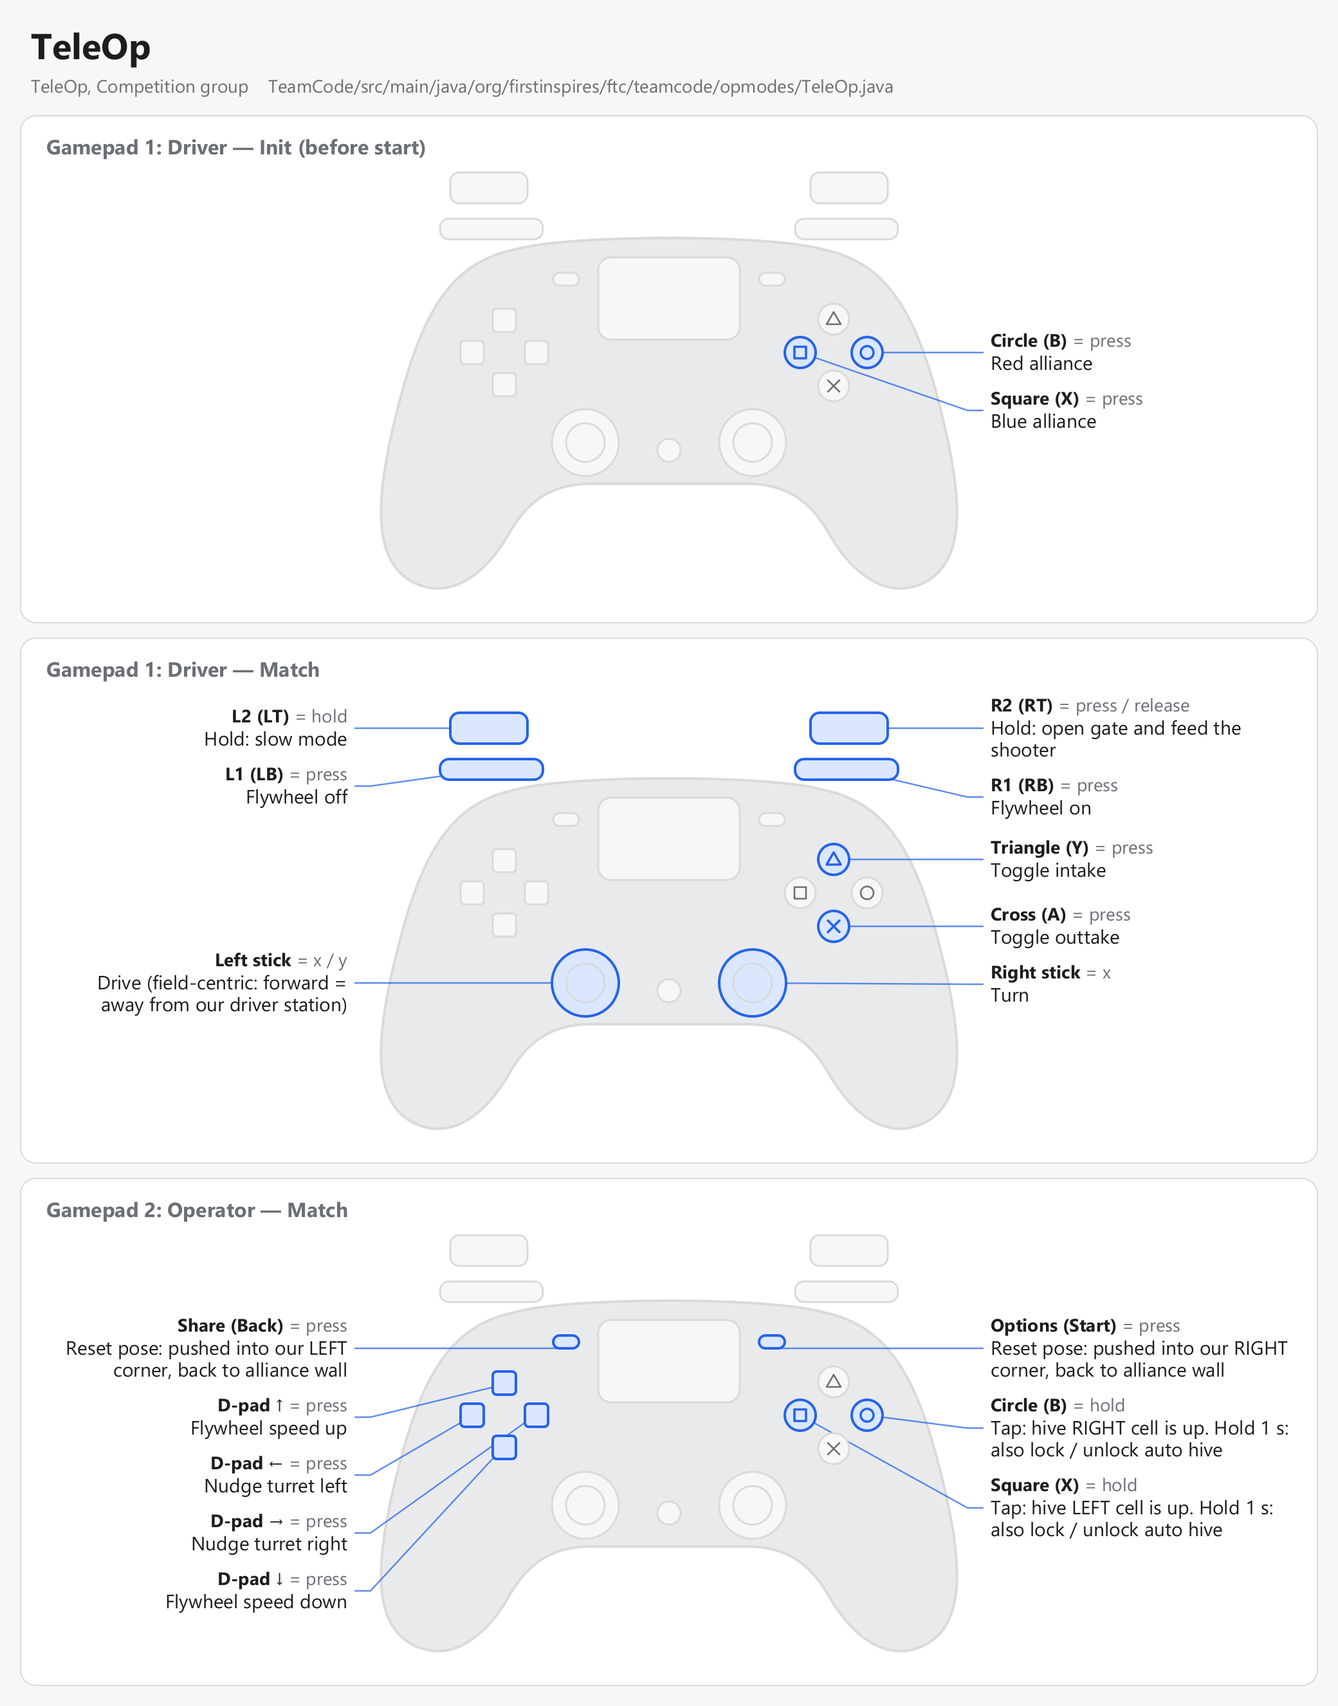
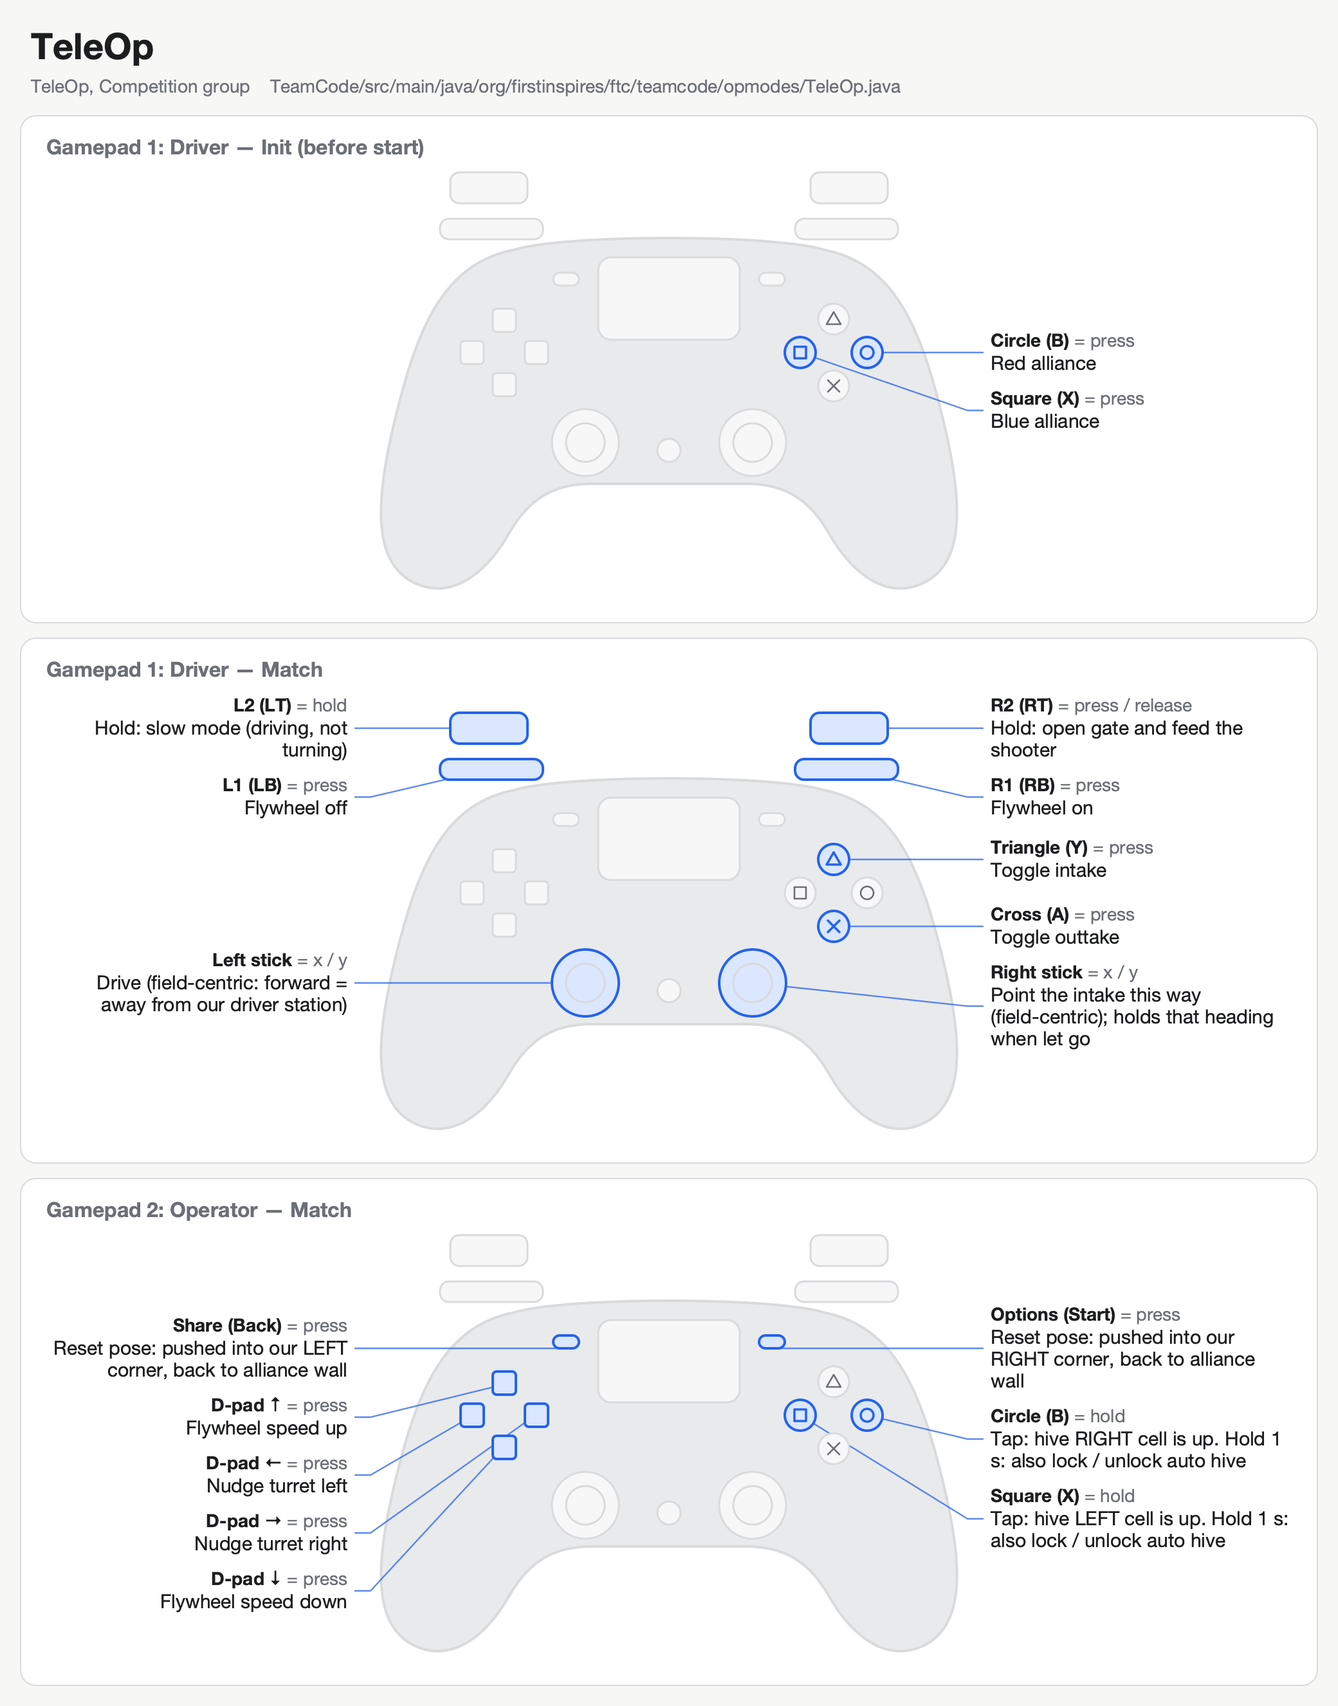
twinstick

diff --git a/tools/telemetry-preview.html b/tools/telemetry-preview.html
@@ -292,6 +292,7 @@ pre .fold { color: var(--muted); }
         <div class="row"><label for="px">x</label><input type="range" id="px" min="9" max="135" step="0.5"><output for="px" id="px-out"></output></div>
         <div class="row"><label for="py">y</label><input type="range" id="py" min="9" max="135" step="0.5"><output for="py" id="py-out"></output></div>
         <div class="row"><label for="ph">Heading</label><input type="range" id="ph" min="-180" max="180" step="1"><output for="ph" id="ph-out"></output></div>
+        <div class="row"><label for="headingTarget">Target heading (right stick)</label><input type="range" id="headingTarget" min="-180" max="180" step="1"><output for="headingTarget" id="headingTarget-out"></output></div>
       </fieldset>
 
       <fieldset>
@@ -506,13 +507,17 @@ function lines(s) {
     add(columns(`Speed margin ±${f(s.flyTol / FLYWHEEL_TICKS_PER_EXIT_SPEED / exit * 100 * 2, 1)}%`, `Aim margin ±${f(s.turTol * 2, 1)}°`));
     add(mono(`Aim ahead ${fs(s.lead, 1)}°`));
   }
-  add(columns(`Pose ${f(s.pose.x, 1)}, ${f(s.pose.y, 1)}`, `Heading ${f(s.pose.h, 0)}°`));
+  add(columns(`Pose ${f(s.pose.x, 1)}, ${f(s.pose.y, 1)}`, `Heading ${f(s.pose.h, 0)}° → ${f(s.headingTarget, 0)}°`));
   add(columns(`Loop ${f(s.loopMs, 1)} ms ${f(1000 / s.loopMs, 0)} Hz`, "Follower MANUAL"));
   tiers.push(out.length);
 
   // 3. Everything else: Robot.telemetry() -> drivebase, intake, gate, launcher, led
   add(color("──── details ────", HTML.GRAY));
   data("Pose", `(${f(s.pose.x, 3)}, ${f(s.pose.y, 3)}, ${f(s.pose.h * Math.PI / 180, 3)})`);
+  // Twin stick: HEADING_KP = 1 turn power per radian, standing still, clipped to HEADING_MAX_POWER = 1
+  const headingError = ((s.headingTarget - s.pose.h + 540) % 360) - 180;
+  data("Heading target / actual (deg)", `${f(s.headingTarget, 0)} / ${f(s.pose.h, 0)}`);
+  data("Turn power", f(Math.max(-1, Math.min(1, headingError * Math.PI / 180)), 2));
   const intakePower = s.feeding || s.intake === "INTAKE" ? 1 : s.intake === "OUTTAKE" ? -1 : 0;
   data("Intake power", f(intakePower, 2));
   data("Gate", s.gate ? "OPEN" : "CLOSED");
@@ -541,7 +546,7 @@ const base = {
   turret: 12.4, turretTarget: 12.9, turTol: 1.5, turNudge: 0,
   aiming: true, feasible: true, sotm: true, lead: 3.1,
   alliance: "RED", hive: "RIGHT", intake: "INTAKE", feeding: false, gate: false, loopMs: 11.5,
-  pose: { x: 26, y: 104, h: -30 },
+  pose: { x: 26, y: 104, h: -30 }, headingTarget: -30,
 };
 const scenarios = [
   ["Ready to shoot", {}],
@@ -551,6 +556,7 @@ const scenarios = [
   ["Flywheel over speed", { actual: 2110, target: 1860, pose: { x: 36, y: 76, h: 0 } }],
   ["Too close to reach", { feasible: false, lead: 0, turret: -35, turretTarget: -35.5, pose: { x: 50, y: 40, h: 90 } }],
   ["Flywheel off", { spinning: false, actual: 0, pose: { x: 100, y: 110, h: 180 } }],
+  ["Turning to the right stick", { pose: { x: 30, y: 96, h: -30 }, headingTarget: 60 }],
   ["Operator nudged", { velNudge: 50, turNudge: -2, turretTarget: 10.9, turret: 10.6, actual: 2020, target: 1980 }],
 ];
 let state = structuredClone(base);
@@ -561,7 +567,7 @@ const $ = id => document.getElementById(id);
 const ranges = {
   target: v => f(v, 0), actual: v => f(v, 0), flyTol: v => f(v, 0), velNudge: v => fs(v, 0),
   turret: v => fs(v, 1) + "°", turretTarget: v => fs(v, 1) + "°", turTol: v => f(v, 1) + "°", turNudge: v => fs(v, 0) + "°",
-  lead: v => fs(v, 1) + "°", loopMs: v => f(v, 1) + " ms",
+  lead: v => fs(v, 1) + "°", loopMs: v => f(v, 1) + " ms", headingTarget: v => fs(v, 0) + "°",
 };
 const poseRanges = { px: ["x", v => f(v, 1)], py: ["y", v => f(v, 1)], ph: ["h", v => fs(v, 0) + "°"] };
 const checks = ["spinning", "aiming", "feasible", "sotm", "feeding", "gate"];
@@ -597,6 +603,8 @@ function render() {
 function pick(i) {
   current = i;
   state = Object.assign(structuredClone(base), structuredClone(scenarios[i][1]));
+  // Holding the heading the robot has, unless the situation says otherwise
+  if (!("headingTarget" in scenarios[i][1])) state.headingTarget = state.pose.h;
   syncInputs();
   render();
 }

diff --git a/TeamCode/src/main/java/org/firstinspires/ftc/teamcode/subsystems/Drivetrain.java b/TeamCode/src/main/java/org/firstinspires/ftc/teamcode/subsystems/Drivetrain.java
@@ -1,6 +1,7 @@
 package org.firstinspires.ftc.teamcode.subsystems;
 
 import static com.pedropathing.ivy.commands.Commands.infinite;
+import static org.firstinspires.ftc.teamcode.RobotConstants.Drive.*;
 
 import com.pedropathing.follower.Follower;
 import com.pedropathing.follower.ManualDrive;
@@ -8,7 +9,10 @@ import com.pedropathing.ivy.Command;
 import com.pedropathing.ivy.behaviors.InterruptedBehavior;
 import com.pedropathing.math.Pose;
 import com.pedropathing.math.Velocity;
+import com.pedropathing.utils.Angle;
 import com.qualcomm.robotcore.hardware.HardwareMap;
+import com.qualcomm.robotcore.util.ElapsedTime;
+import com.qualcomm.robotcore.util.Range;
 
 import org.firstinspires.ftc.robotcore.external.Telemetry;
 import org.firstinspires.ftc.teamcode.pedro.Constants;
@@ -18,9 +22,20 @@ import java.util.function.DoubleSupplier;
 /**
  * Thin wrapper around the Pedro Pathing {@link Follower}, configured in {@link Constants}.
  * Autos drive paths with {@code PedroCommands.follow(follower, path)}.
+ * Twin stick TeleOp driving turns the robot with a PID loop on the localizer heading.
  */
 public class Drivetrain implements Subsystem {
     private final Follower follower;
+
+    private double targetHeading = 0; // field radians, for the front of the robot
+    private double turnPower = 0;
+    private final ElapsedTime headingTimer = new ElapsedTime();
+    private double headingIntegral = 0;
+    private double lastHeadingError = 0;
+    // Whether the twin stick drive ran last loop / this loop. When it starts, or resumes after a path suspended it,
+    // it holds the heading the robot has now instead of turning back to an old target.
+    private boolean headingHeld = false;
+    private boolean headingHeldThisLoop = false;
 
     public Drivetrain(HardwareMap hardwareMap) {
         follower = Constants.create(hardwareMap);
@@ -36,13 +51,26 @@ public class Drivetrain implements Subsystem {
         return follower.pose();
     }
 
+    /** Also holds the new heading, so a corner reset doesn't turn the robot to a target from before the reset. */
     public void setPose(Pose pose) {
         follower.setPose(pose);
+        setTargetHeading(pose.heading());
     }
 
     /** Field-relative velocity: inches/sec in x and y, radians/sec CCW. */
     public Velocity getVelocity() {
         return follower.velocity();
+    }
+
+    // ---- Heading hold ----
+
+    /** Field heading (radians) the twin stick drive turns the front of the robot to. */
+    public double getTargetHeading() {
+        return targetHeading;
+    }
+
+    public void setTargetHeading(double heading) {
+        targetHeading = Angle.normalizeSigned(heading);
     }
 
     // ---- Commands ----
@@ -62,8 +90,59 @@ public class Drivetrain implements Subsystem {
                 .setInterruptedBehavior(InterruptedBehavior.SUSPEND);
     }
 
+    /**
+     * Field-centric drive like {@link #driveFieldCentric}, but the second stick says which way to face instead of
+     * how fast to turn: the intake turns to point where it's pushed, and the robot holds that heading once it's let
+     * go. Both sticks use the same frame (forward = away from our driver station, +left).
+     *
+     * @param faceForward second stick, forward component
+     * @param faceLeft    second stick, left component
+     */
+    public Command driveTwinStick(DoubleSupplier forward, DoubleSupplier strafe,
+                                  DoubleSupplier faceForward, DoubleSupplier faceLeft, double headingOffset) {
+        return infinite(() -> {
+            double x = faceForward.getAsDouble();
+            double y = faceLeft.getAsDouble();
+            if (Math.hypot(x, y) > HEADING_STICK_THRESHOLD) {
+                setTargetHeading(headingOffset + Math.atan2(y, x) - INTAKE_HEADING_OFFSET);
+            }
+            follower.manual(ManualDrive.fieldCentric(
+                    forward.getAsDouble(), strafe.getAsDouble(), holdHeading(),
+                    follower.pose().heading(), headingOffset));
+        })
+                .requiring(this)
+                .setInterruptedBehavior(InterruptedBehavior.SUSPEND);
+    }
+
+    /** Turn power (+CCW) toward targetHeading. Call once per loop while holding a heading. */
+    private double holdHeading() {
+        double heading = follower.pose().heading();
+        double dt = headingTimer.seconds();
+        headingTimer.reset();
+        if (!headingHeld) {
+            setTargetHeading(heading);
+            headingIntegral = 0;
+            lastHeadingError = 0;
+            dt = 0;
+        }
+        headingHeldThisLoop = true;
+
+        double error = Angle.normalizeSigned(targetHeading - heading);
+        // Anti-windup: dump the integral when the error crosses zero
+        if (Math.signum(error) != Math.signum(lastHeadingError)) headingIntegral = 0;
+        headingIntegral += error * dt;
+        lastHeadingError = error;
+
+        // Derivative from the measured turn speed (the target holds still), so a new target doesn't kick the output
+        double power = HEADING_KP * error + HEADING_KI * headingIntegral - HEADING_KD * follower.velocity().omega;
+        turnPower = Range.clip(power, -HEADING_MAX_POWER, HEADING_MAX_POWER);
+        return turnPower;
+    }
+
     @Override
     public void update() {
+        headingHeld = headingHeldThisLoop;
+        headingHeldThisLoop = false;
         follower.update();
     }
 
@@ -75,5 +154,10 @@ public class Drivetrain implements Subsystem {
     @Override
     public void telemetry(Telemetry telemetry) {
         telemetry.addData("Pose", follower.pose());
+        if (headingHeld) {
+            telemetry.addData("Heading target / actual (deg)", "%.0f / %.0f",
+                    Math.toDegrees(targetHeading), Math.toDegrees(Angle.normalizeSigned(follower.pose().heading())));
+            telemetry.addData("Turn power", "%.2f", turnPower);
+        }
     }
 }

diff --git a/TeamCode/src/main/java/org/firstinspires/ftc/teamcode/opmodes/TeleOp.java b/TeamCode/src/main/java/org/firstinspires/ftc/teamcode/opmodes/TeleOp.java
@@ -2,6 +2,7 @@ package org.firstinspires.ftc.teamcode.opmodes;
 
 import static com.pedropathing.ivy.Scheduler.schedule;
 import static org.firstinspires.ftc.teamcode.RobotConstants.Drive.SLOW_MODE_SCALE;
+import static org.firstinspires.ftc.teamcode.RobotConstants.Drive.TURN_MODE;
 import static org.firstinspires.ftc.teamcode.RobotConstants.Field.RED_LEFT_CORNER;
 import static org.firstinspires.ftc.teamcode.RobotConstants.Field.RED_RIGHT_CORNER;
 import static org.firstinspires.ftc.teamcode.RobotConstants.Launcher.SHOOT_ON_THE_MOVE;
@@ -11,6 +12,7 @@ import static org.firstinspires.ftc.teamcode.util.Html.*;
 
 import com.pedropathing.ivy.Scheduler;
 import com.pedropathing.math.Pose;
+import com.pedropathing.utils.Angle;
 import com.qualcomm.robotcore.eventloop.opmode.OpMode;
 import com.qualcomm.robotcore.util.ElapsedTime;
 
@@ -19,6 +21,7 @@ import org.firstinspires.ftc.teamcode.Alliance;
 import org.firstinspires.ftc.teamcode.Hive;
 import org.firstinspires.ftc.teamcode.MatchState;
 import org.firstinspires.ftc.teamcode.Robot;
+import org.firstinspires.ftc.teamcode.RobotConstants.Drive.TurnMode;
 import org.firstinspires.ftc.teamcode.ShotSolver.Shot;
 import org.firstinspires.ftc.teamcode.subsystems.Intake;
 import org.firstinspires.ftc.teamcode.subsystems.Launcher;
@@ -28,8 +31,10 @@ import org.firstinspires.ftc.teamcode.util.Html;
 
 /**
  * Gamepad 1 (driver):
- *   sticks          field-centric drive (stick forward = away from our driver station)
- *   hold LT         slow mode
+ *   left stick      field-centric drive (stick forward = away from our driver station)
+ *   right stick     point the intake that way (same frame); the robot holds that heading when let go.
+ *                   With RobotConstants.Drive.TURN_MODE = RATE, right stick x sets the turn speed instead
+ *   hold LT         slow mode (driving only; with RATE, turning too)
  *   triangle        toggle intake        cross   toggle outtake
  *   RB              flywheel on          LB      flywheel off
  *   hold RT         open the gate and feed the shooter
@@ -79,12 +84,18 @@ public class TeleOp extends OpMode {
         double headingOffset = MatchState.alliance == Alliance.BLUE ? Math.PI : 0;
         // Always-on commands, running for the whole match
         schedule(
-                robot.drivebase.driveFieldCentric(
-                        () -> -gamepad1.left_stick_y * driveScale(),
-                        () -> -gamepad1.left_stick_x * driveScale(),
-                        () -> -gamepad1.right_stick_x * driveScale(),
-                        headingOffset
-                ),
+                TURN_MODE == TurnMode.TWIN_STICK
+                        ? robot.drivebase.driveTwinStick(
+                                () -> -gamepad1.left_stick_y * driveScale(),
+                                () -> -gamepad1.left_stick_x * driveScale(),
+                                () -> -gamepad1.right_stick_y,
+                                () -> -gamepad1.right_stick_x,
+                                headingOffset)
+                        : robot.drivebase.driveFieldCentric(
+                                () -> -gamepad1.left_stick_y * driveScale(),
+                                () -> -gamepad1.left_stick_x * driveScale(),
+                                () -> -gamepad1.right_stick_x * driveScale(),
+                                headingOffset),
                 robot.aimAtHive()
         );
         loopTimer.reset();
@@ -185,8 +196,12 @@ public class TeleOp extends OpMode {
             // How far off the hive the turret points to make up for the robot's motion
             telemetry.addLine(mono(String.format("Aim ahead %+.1f°", Math.toDegrees(shot.leadAngle))));
         }
-        telemetry.addLine(columns(String.format("Pose %.1f, %.1f", pose.x(), pose.y()),
-                String.format("Heading %.0f°", Math.toDegrees(pose.heading()))));
+        String heading = TURN_MODE == TurnMode.TWIN_STICK
+                // Where the robot is pointing → where the driver asked it to point
+                ? String.format("Heading %.0f° → %.0f°", Math.toDegrees(Angle.normalizeSigned(pose.heading())),
+                        Math.toDegrees(robot.drivebase.getTargetHeading()))
+                : String.format("Heading %.0f°", Math.toDegrees(pose.heading()));
+        telemetry.addLine(columns(String.format("Pose %.1f, %.1f", pose.x(), pose.y()), heading));
         telemetry.addLine(columns(String.format("Loop %.1f ms %.0f Hz", loopMs, 1000 / loopMs),
                 "Follower " + robot.drivebase.getFollower().mode()));
 

diff --git a/TeamCode/src/main/java/org/firstinspires/ftc/teamcode/opmodes/tuning/HeadingTuner.java b/TeamCode/src/main/java/org/firstinspires/ftc/teamcode/opmodes/tuning/HeadingTuner.java
@@ -1,0 +1,90 @@
+package org.firstinspires.ftc.teamcode.opmodes.tuning;
+
+import static com.pedropathing.ivy.Scheduler.schedule;
+
+import com.bylazar.configurables.annotations.Configurable;
+import com.bylazar.telemetry.PanelsTelemetry;
+import com.bylazar.telemetry.TelemetryManager;
+import com.pedropathing.ivy.Scheduler;
+import com.pedropathing.math.Pose;
+import com.pedropathing.utils.Angle;
+import com.qualcomm.robotcore.eventloop.opmode.OpMode;
+import com.qualcomm.robotcore.eventloop.opmode.TeleOp;
+
+import org.firstinspires.ftc.teamcode.RobotConstants;
+import org.firstinspires.ftc.teamcode.subsystems.Drivetrain;
+
+/**
+ * Tune the twin stick heading PID with Panels: edit the values under Configurables > HeadingTuner and watch
+ * target / actual in the Graph. Copy the final values into RobotConstants.Drive.
+ * The robot starts at heading 0, so stick forward is the way it faces at start.
+ * 1. Raise kP until the robot turns to the target quickly, then back off if it overshoots.
+ * 2. Add kD to damp any overshoot. Add kI only if it stops just short of the target.
+ * X / A / B (gamepad 1) jump the target left / center / right by stepDegrees, Y turns it around (the hardest case).
+ * The sticks drive like TeleOp's twin stick drive, to check it holds the heading while driving.
+ */
+@Configurable
+@TeleOp(name = "Heading Tuner", group = "Tuning")
+public class HeadingTuner extends OpMode {
+    public static double stepDegrees = 90;
+    public static double kP = RobotConstants.Drive.HEADING_KP;
+    public static double kI = RobotConstants.Drive.HEADING_KI;
+    public static double kD = RobotConstants.Drive.HEADING_KD;
+    public static double maxPower = RobotConstants.Drive.HEADING_MAX_POWER;
+
+    private Drivetrain drivetrain;
+    private TelemetryManager panels;
+
+    @Override
+    public void init() {
+        Scheduler.reset();
+
+        drivetrain = new Drivetrain(hardwareMap);
+        drivetrain.setPose(new Pose(0, 0, 0));
+        panels = PanelsTelemetry.INSTANCE.getTelemetry();
+    }
+
+    @Override
+    public void start() {
+        drivetrain.start();
+        schedule(drivetrain.driveTwinStick(
+                () -> -gamepad1.left_stick_y,
+                () -> -gamepad1.left_stick_x,
+                () -> -gamepad1.right_stick_y,
+                () -> -gamepad1.right_stick_x,
+                0));
+    }
+
+    @Override
+    public void loop() {
+        // The drivetrain reads these every loop, so edits in Panels take effect right away
+        RobotConstants.Drive.HEADING_KP = kP;
+        RobotConstants.Drive.HEADING_KI = kI;
+        RobotConstants.Drive.HEADING_KD = kD;
+        RobotConstants.Drive.HEADING_MAX_POWER = maxPower;
+
+        // Positive heading is counter-clockwise, i.e. to the left
+        if (gamepad1.xWasPressed()) drivetrain.setTargetHeading(Math.toRadians(stepDegrees));
+        if (gamepad1.aWasPressed()) drivetrain.setTargetHeading(0);
+        if (gamepad1.bWasPressed()) drivetrain.setTargetHeading(Math.toRadians(-stepDegrees));
+        if (gamepad1.yWasPressed()) drivetrain.setTargetHeading(drivetrain.getTargetHeading() + Math.PI);
+
+        drivetrain.update();
+        Scheduler.execute();
+
+        double target = Math.toDegrees(drivetrain.getTargetHeading());
+        double actual = Math.toDegrees(Angle.normalizeSigned(drivetrain.getPose().heading()));
+        panels.addLine("X left, A center, B right, Y turn around");
+        panels.addData("Target (deg)", target);
+        panels.addData("Actual (deg)", actual);
+        panels.addData("Error (deg)", Math.toDegrees(Angle.normalizeSigned(Math.toRadians(target - actual))));
+        panels.addData("Turn speed (deg/s)", Math.toDegrees(drivetrain.getVelocity().omega));
+        panels.update(telemetry);
+    }
+
+    @Override
+    public void stop() {
+        Scheduler.reset();
+        drivetrain.stop();
+    }
+}

diff --git a/TeamCode/src/main/java/org/firstinspires/ftc/teamcode/RobotConstants.java b/TeamCode/src/main/java/org/firstinspires/ftc/teamcode/RobotConstants.java
@@ -39,6 +39,25 @@ public class RobotConstants {
 
     public static class Drive {
         public static double SLOW_MODE_SCALE = 0.4; // TODO: tune
+
+        /** How the TeleOp right stick turns the robot. */
+        public enum TurnMode {
+            TWIN_STICK, // the intake turns to face where the right stick points, and holds that heading when let go
+            RATE        // right stick x sets the turn speed
+        }
+        public static TurnMode TURN_MODE = TurnMode.TWIN_STICK;
+
+        // ---- Twin stick heading hold ----
+        // The right stick sets a new heading only when pushed further than this, so its spring-back to center
+        // when let go doesn't
+        public static double HEADING_STICK_THRESHOLD = 0.5;
+        // Radians counter-clockwise from the front of the robot (Pedro +x) to the intake. The intake is on the front.
+        public static double INTAKE_HEADING_OFFSET = 0;
+        // TODO: tune with the Heading Tuner OpMode
+        public static double HEADING_KP = 1.0;        // turn power per radian of error
+        public static double HEADING_KI = 0;          // turn power per radian-second
+        public static double HEADING_KD = 0;          // turn power per radian/sec of turn speed
+        public static double HEADING_MAX_POWER = 1.0; // full power: get to the heading as fast as possible
     }
 
     public static class Intake {
